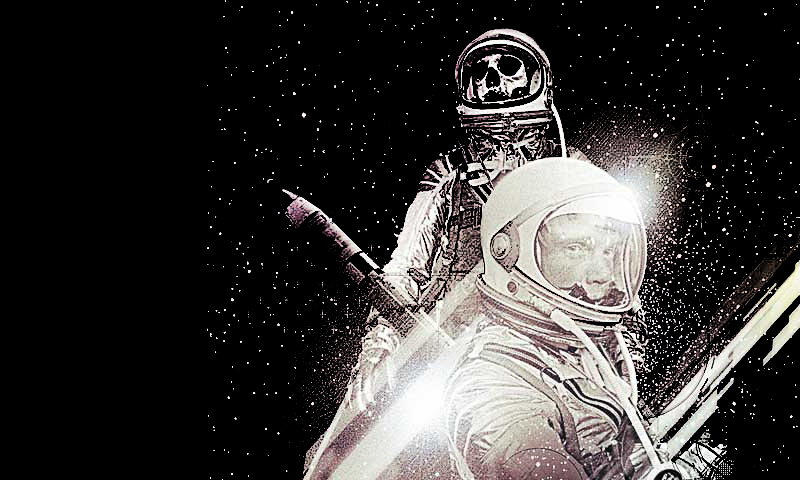
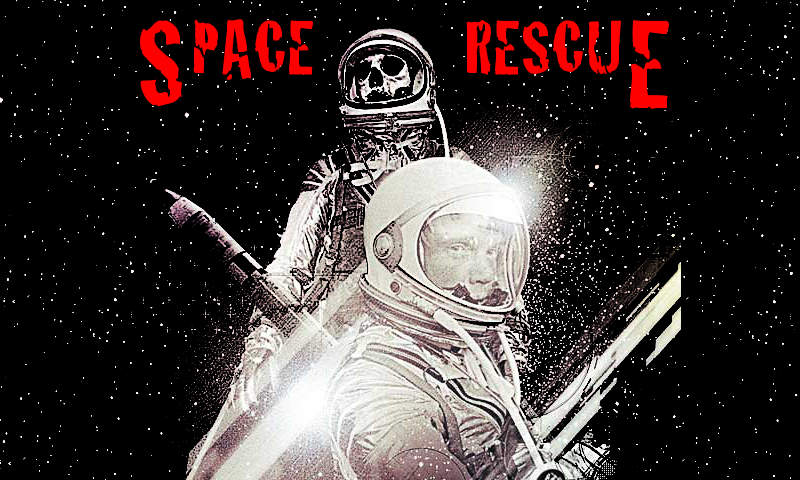
New Menu

diff --git a/qml/spacerace/Menu.qml b/qml/spacerace/Menu.qml
@@ -3,6 +3,7 @@ import Qt 4.7
 Image {
     id: menu
     property Item root
+    property Item rescueTimer: menuTimer
 
     anchors.centerIn: root
     source: "qrc:/space/img/menu.png"
@@ -13,11 +14,21 @@ Image {
         }
     }
 
+    Rectangle {
+        anchors.horizontalCenter: parent.horizontalCenter
+        anchors.bottom: parent.bottom
+        anchors.left: parent.left
+        anchors.right: parent.right
+        height: menuTimer.height + 20
+        color: "black"
+        opacity: 0.7
+    }
+
     Image {
         id: startGame
         source: "qrc:/space/img/hal_newgame.png"
-        anchors.top: parent.top
-        anchors.bottom: parent.verticalCenter
+        anchors.bottom: parent.bottom
+        anchors.left: parent.left
         MouseArea {
             anchors.fill: parent
             onClicked: {
@@ -25,16 +36,24 @@ Image {
             }
         }
     }
+
     Image {
         id: endGame
         source: "qrc:/space/img/hal.png"
-        anchors.top: startGame.bottom
         anchors.bottom: parent.bottom
+        anchors.right: parent.right
         MouseArea {
             anchors.fill: parent
             onClicked: {
                 Qt.quit();
             }
         }
+    }
+
+    RescueTimer {
+        id: menuTimer
+        anchors.horizontalCenter: parent.horizontalCenter
+        anchors.bottom: parent.bottom
+        anchors.bottomMargin: 10
     }
 }

diff --git a/qml/spacerace/main.qml b/qml/spacerace/main.qml
@@ -97,6 +97,7 @@ Rectangle {
         id: rescueTimer
         x: 10
         y: 10
+        opacity: 0;
     }
 
     Keys.onPressed: {
@@ -138,6 +139,7 @@ Rectangle {
         rescueTimer.running = true;
         rescueTimer.menuMode = false
         menu.opacity = 0;
+        rescueTimer.opacity = 1;
     }
 
     function endGame()
@@ -145,5 +147,10 @@ Rectangle {
         menu.opacity = 1;
         rescueTimer.running = false;
         rescueTimer.menuMode = true
+        rescueTimer.opacity = 0;
+        menu.rescueTimer.hours = rescueTimer.hours
+        menu.rescueTimer.minutes = rescueTimer.minutes
+        menu.rescueTimer.seconds = rescueTimer.seconds
+        menu.rescueTimer.milliseconds = rescueTimer.milliseconds
     }
 }

diff --git a/qml/spacerace/RescueTimer.qml b/qml/spacerace/RescueTimer.qml
@@ -9,11 +9,6 @@ Text {
     property bool running: false
     property bool menuMode: true;
 
-    anchors.right: menuMode ? parent.right : undefined
-    anchors.leftMargin: 10
-    anchors.rightMargin: 10
-    anchors.left: !menuMode ? parent.left : undefined
-
     color: "#8888ff"
     text: "<b>" + format(hours) + " : " + format(minutes) + " : " + format(seconds) + (menuMode ? " : " + format(milliseconds) : "")
 
